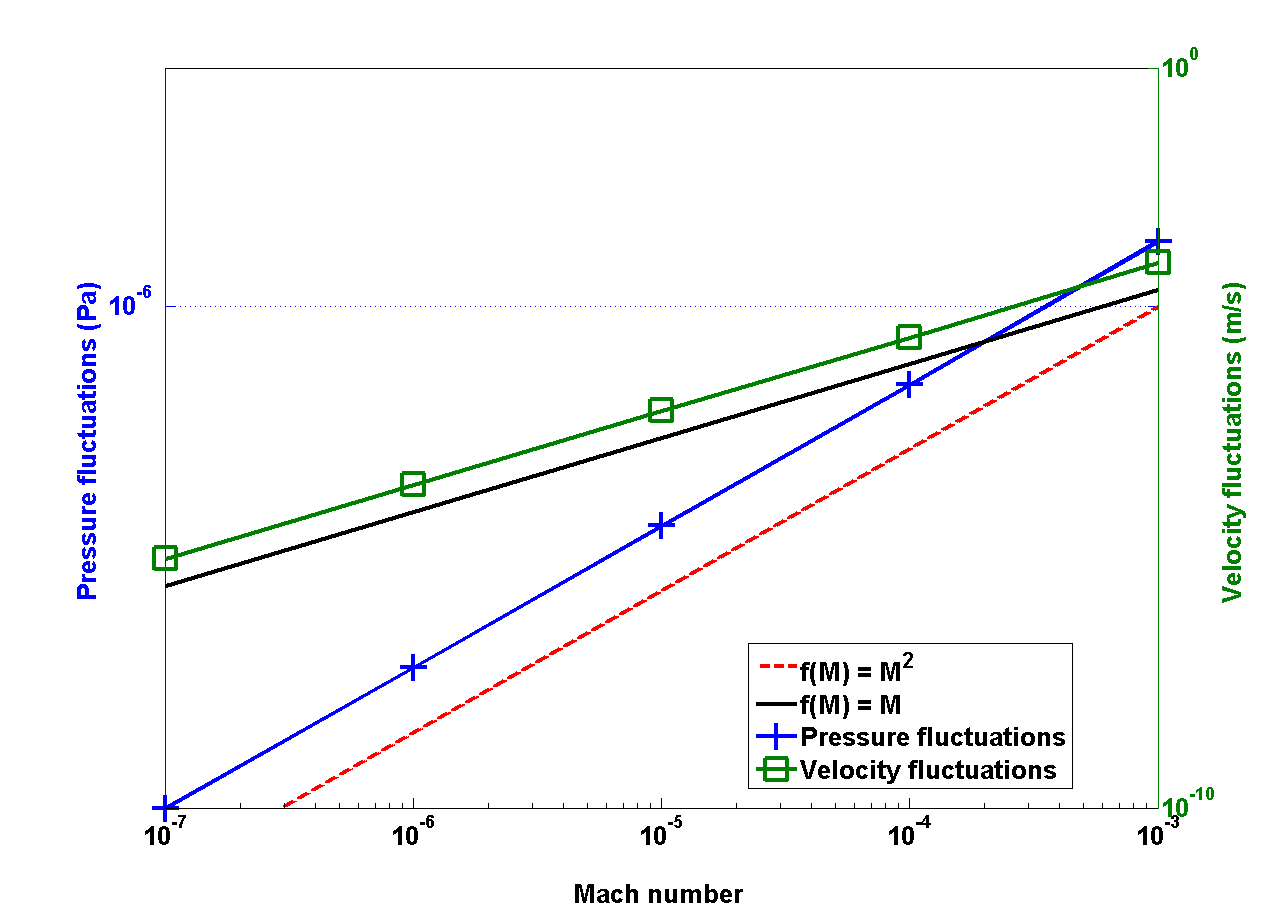
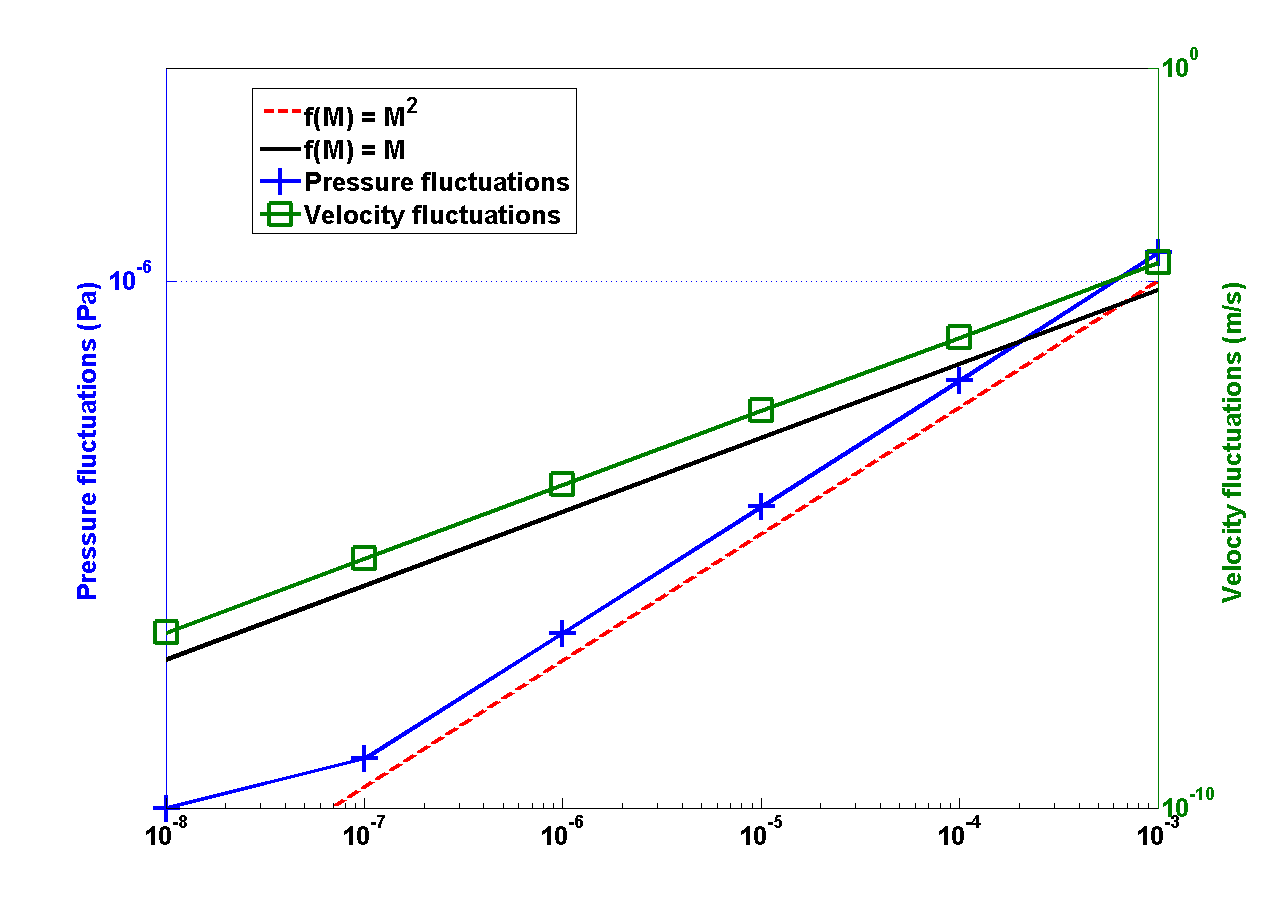
new plots

diff --git a/low_mach.tex b/low_mach.tex
@@ -1099,9 +1099,25 @@ The steady-state for Mach numbers ranging from $M_{\infty} = 10^{-3}$ to $M_{\in
           %(or a blank line to force the subfigure onto a new line)
         \begin{subfigure}[b]{0.495\textwidth}
                 \centering
+                \includegraphics[width=\textwidth]{CylinderMach1em6ZoomIn.png}
+                \caption{Steady-state solution at $M_{\infty}=10^{-6}$.}
+                \label{fig:cyl_1em6}
+        \end{subfigure}
+         %add desired spacing between images, e. g. ~, \quad, \qquad etc. 
+          %(or a blank line to force the subfigure onto a new line)
+        \begin{subfigure}[b]{0.495\textwidth}
+                \centering
                 \includegraphics[width=\textwidth]{CylinderMach1em7ZoomIn.png}
                 \caption{Steady-state solution at $M_{\infty}=10^{-7}$.}
                 \label{fig:cyl_1em7}
+        \end{subfigure}
+          %add desired spacing between images, e. g. ~, \quad, \qquad etc. 
+          %(or a blank line to force the subfigure onto a new line)
+        \begin{subfigure}[b]{0.495\textwidth}
+                \centering
+                \includegraphics[width=\textwidth]{CylinderMach1em8ZoomIn.png}
+                \caption{Steady-state solution at $M_{\infty}=10^{-8}$.}
+                \label{fig:cyl_1em8}
         \end{subfigure}
         \caption{Steady-state solution for a subsonic flow over a $2$-D cylinder.}\label{fig:cylinder}
 \end{figure}
@@ -1121,7 +1137,7 @@ $10^{-7}$ & $2.283$ $10^{-7}$ & $1.144$ $10^{-7}$ & $1.99$ \\ \hline
 \end{center}
 \nonumber
 \end{table}
-In \fig{fig:pressure_vel_fluc}, the pressure and velocity fluctuations are plotted as a function of the far field Mach number, on a log-log plot. The pressure and velocity fluctuations are expected to be of the order of the Mach number square and the Mach number, respectively. It ss known that some stabilization methods, alike upwind scheme \cite{guillard}, can produce pressure fluctuations with the wrong order. The objective of \fig{fig:pressure_vel_fluc} is to show that the new definition of the viscosity coefficients yields the correct order in the low Mach limit for both the pressure and velocity variables. For reference purpose, the function $f(M) = M^2$ and $f(M)=M$ are plotted.  
+In \fig{fig:pressure_vel_fluc}, the pressure and velocity fluctuations are plotted as a function of the far field Mach number, on a log-log plot. The pressure and velocity fluctuations are expected to be of the order of the Mach number square and the Mach number, respectively. It is known that some stabilization methods, alike upwind scheme \cite{guillard}, can produce pressure fluctuations with the wrong order. The objective of \fig{fig:pressure_vel_fluc} is to show that the new definition of the viscosity coefficients yields the correct order in the low Mach limit for both the pressure and velocity variables. For reference purpose, the function $f(M) = M^2$ and $f(M)=M$ are plotted.  
 \begin{figure}[H]
 \centering
 \includegraphics[width=\textwidth]{pressure_fluctuation.png}
